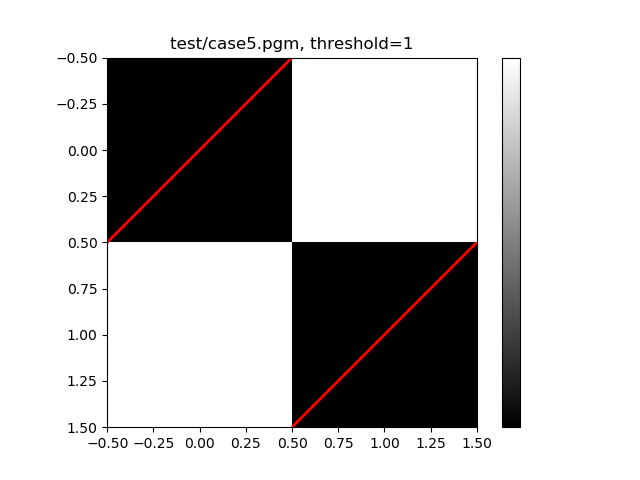
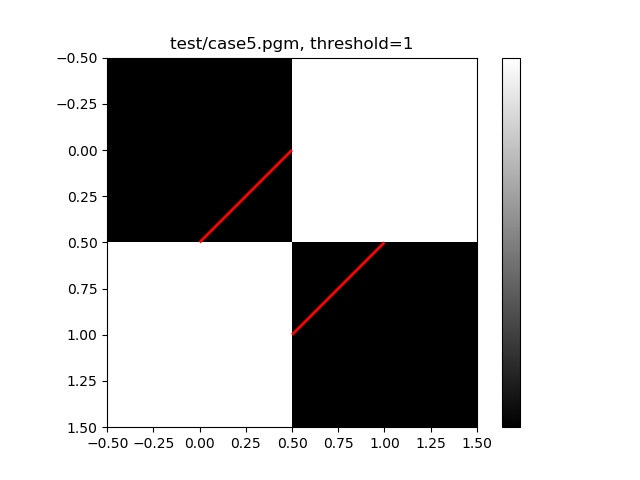
Fixed case 5.

diff --git a/ProgramFive/fig_mri_contour.py b/ProgramFive/fig_mri_contour.py
@@ -97,7 +97,7 @@ lookup_table = {
     '0010': [(0.5, 1), (1.0, 0.5)],
     '0011': [(0, 0.5), (1.0, 0.5)],
     '0100': [(0.5, 0), (1.0, 0.5)],
-    '0101': [(-.5, -0.5), (0.5, .5), (0.5, -1.5), (1.5, -0.5)],
+    '0101': [(0, 0.5), (0.5, 0), (0.5, 1.0), (1.0, 0.5)],
     '0110': [(0.5, .5), (0.5, -1.5)],
     '0111': [(-.5, -0.5), (0.5, .5)],
     '1000': [(-.5, -0.5), (0.5, .5)],
